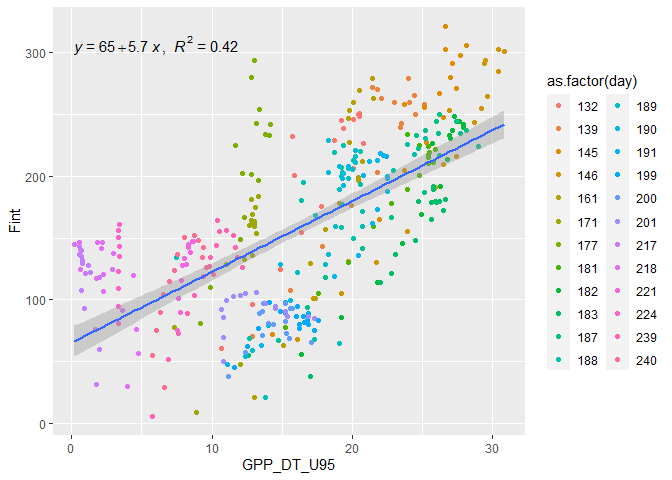
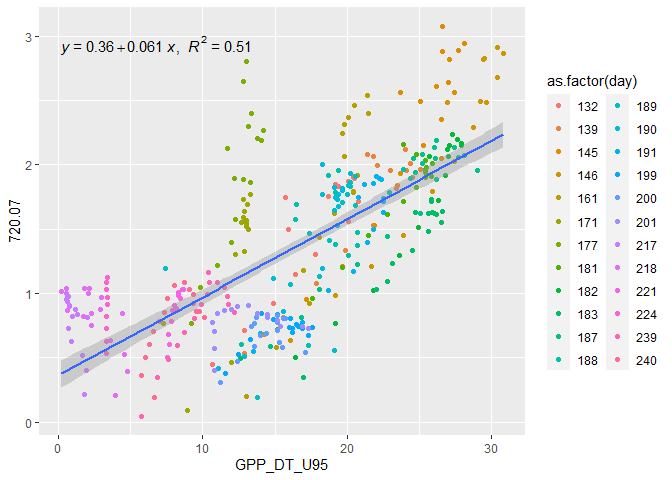
update

diff --git a/README.md b/README.md
@@ -310,9 +310,11 @@ df_final_sub |>
 
 ![](README_files/figure-gfm/unnamed-chunk-15-1.png)<!-- -->
 
+With the `720` wavelength
+
 ``` r
 df_final_sub |> 
-  ggplot2::ggplot(ggplot2::aes(x=GPP_DT_U95, y= Fint))+
+  ggplot2::ggplot(ggplot2::aes(x=GPP_DT_U95, y= `720.07`))+
   ggplot2::geom_jitter(ggplot2::aes(colour=as.factor(day)))+
   ggplot2::geom_smooth(method = "lm")+
   ggpubr::stat_regline_equation(ggplot2::aes(
@@ -322,6 +324,22 @@ df_final_sub |>
     ## `geom_smooth()` using formula 'y ~ x'
 
 ![](README_files/figure-gfm/unnamed-chunk-16-1.png)<!-- -->
+
+``` r
+df_final_sub |>
+  dplyr::filter(Hr1 > 10 & Hr1 < 14) |> 
+  ggplot2::ggplot(ggplot2::aes(x=GPP_DT_U95, y= `720.07`))+
+  ggplot2::geom_jitter(ggplot2::aes(colour=as.factor(day)))+
+  ggplot2::geom_smooth(method = "lm")+
+  ggpubr::stat_regline_equation(ggplot2::aes(
+  label =  paste(..eq.label.., ..rr.label.., sep = "*plain(\",\")~~")))
+```
+
+    ## `geom_smooth()` using formula 'y ~ x'
+
+![](README_files/figure-gfm/unnamed-chunk-17-1.png)<!-- -->
+
+With the other two selected waves
 
 ``` r
 df_final_sub |> 
@@ -334,7 +352,7 @@ df_final_sub |>
 
     ## `geom_smooth()` using formula 'y ~ x'
 
-![](README_files/figure-gfm/unnamed-chunk-17-1.png)<!-- -->
+![](README_files/figure-gfm/unnamed-chunk-18-1.png)<!-- -->
 
 ``` r
 df_final_sub |> 
@@ -347,7 +365,7 @@ df_final_sub |>
 
     ## `geom_smooth()` using formula 'y ~ x'
 
-![](README_files/figure-gfm/unnamed-chunk-18-1.png)<!-- -->
+![](README_files/figure-gfm/unnamed-chunk-19-1.png)<!-- -->
 
 ``` r
 df_final_sub |> 
@@ -362,7 +380,7 @@ df_final_sub |>
 
     ## `geom_smooth()` using formula 'y ~ x'
 
-![](README_files/figure-gfm/unnamed-chunk-19-1.png)<!-- -->
+![](README_files/figure-gfm/unnamed-chunk-20-1.png)<!-- -->
 
 ``` r
 df_final_sub |> 
@@ -377,7 +395,7 @@ df_final_sub |>
 
     ## `geom_smooth()` using formula 'y ~ x'
 
-![](README_files/figure-gfm/unnamed-chunk-20-1.png)<!-- -->
+![](README_files/figure-gfm/unnamed-chunk-21-1.png)<!-- -->
 
 # **Clounds and reflectance**
 
@@ -396,99 +414,99 @@ for(i in c(132,139,145,146,161,171,177,181,182,183,187,188,189,190,191,
 
     ## `geom_smooth()` using method = 'loess' and formula 'y ~ x'
 
-![](README_files/figure-gfm/unnamed-chunk-21-1.png)<!-- -->
+![](README_files/figure-gfm/unnamed-chunk-22-1.png)<!-- -->
 
     ## `geom_smooth()` using method = 'loess' and formula 'y ~ x'
 
-![](README_files/figure-gfm/unnamed-chunk-21-2.png)<!-- -->
+![](README_files/figure-gfm/unnamed-chunk-22-2.png)<!-- -->
 
     ## `geom_smooth()` using method = 'loess' and formula 'y ~ x'
 
-![](README_files/figure-gfm/unnamed-chunk-21-3.png)<!-- -->
+![](README_files/figure-gfm/unnamed-chunk-22-3.png)<!-- -->
 
     ## `geom_smooth()` using method = 'loess' and formula 'y ~ x'
 
-![](README_files/figure-gfm/unnamed-chunk-21-4.png)<!-- -->
+![](README_files/figure-gfm/unnamed-chunk-22-4.png)<!-- -->
 
     ## `geom_smooth()` using method = 'loess' and formula 'y ~ x'
 
-![](README_files/figure-gfm/unnamed-chunk-21-5.png)<!-- -->
+![](README_files/figure-gfm/unnamed-chunk-22-5.png)<!-- -->
 
     ## `geom_smooth()` using method = 'loess' and formula 'y ~ x'
 
-![](README_files/figure-gfm/unnamed-chunk-21-6.png)<!-- -->
+![](README_files/figure-gfm/unnamed-chunk-22-6.png)<!-- -->
 
     ## `geom_smooth()` using method = 'loess' and formula 'y ~ x'
 
-![](README_files/figure-gfm/unnamed-chunk-21-7.png)<!-- -->
+![](README_files/figure-gfm/unnamed-chunk-22-7.png)<!-- -->
 
     ## `geom_smooth()` using method = 'loess' and formula 'y ~ x'
 
-![](README_files/figure-gfm/unnamed-chunk-21-8.png)<!-- -->
+![](README_files/figure-gfm/unnamed-chunk-22-8.png)<!-- -->
 
     ## `geom_smooth()` using method = 'loess' and formula 'y ~ x'
 
-![](README_files/figure-gfm/unnamed-chunk-21-9.png)<!-- -->
+![](README_files/figure-gfm/unnamed-chunk-22-9.png)<!-- -->
 
     ## `geom_smooth()` using method = 'loess' and formula 'y ~ x'
 
-![](README_files/figure-gfm/unnamed-chunk-21-10.png)<!-- -->
+![](README_files/figure-gfm/unnamed-chunk-22-10.png)<!-- -->
 
     ## `geom_smooth()` using method = 'loess' and formula 'y ~ x'
 
-![](README_files/figure-gfm/unnamed-chunk-21-11.png)<!-- -->
+![](README_files/figure-gfm/unnamed-chunk-22-11.png)<!-- -->
 
     ## `geom_smooth()` using method = 'loess' and formula 'y ~ x'
 
-![](README_files/figure-gfm/unnamed-chunk-21-12.png)<!-- -->
+![](README_files/figure-gfm/unnamed-chunk-22-12.png)<!-- -->
 
     ## `geom_smooth()` using method = 'loess' and formula 'y ~ x'
 
-![](README_files/figure-gfm/unnamed-chunk-21-13.png)<!-- -->
+![](README_files/figure-gfm/unnamed-chunk-22-13.png)<!-- -->
 
     ## `geom_smooth()` using method = 'loess' and formula 'y ~ x'
 
-![](README_files/figure-gfm/unnamed-chunk-21-14.png)<!-- -->
+![](README_files/figure-gfm/unnamed-chunk-22-14.png)<!-- -->
 
     ## `geom_smooth()` using method = 'loess' and formula 'y ~ x'
 
-![](README_files/figure-gfm/unnamed-chunk-21-15.png)<!-- -->
+![](README_files/figure-gfm/unnamed-chunk-22-15.png)<!-- -->
 
     ## `geom_smooth()` using method = 'loess' and formula 'y ~ x'
 
-![](README_files/figure-gfm/unnamed-chunk-21-16.png)<!-- -->
+![](README_files/figure-gfm/unnamed-chunk-22-16.png)<!-- -->
 
     ## `geom_smooth()` using method = 'loess' and formula 'y ~ x'
 
-![](README_files/figure-gfm/unnamed-chunk-21-17.png)<!-- -->
+![](README_files/figure-gfm/unnamed-chunk-22-17.png)<!-- -->
 
     ## `geom_smooth()` using method = 'loess' and formula 'y ~ x'
 
-![](README_files/figure-gfm/unnamed-chunk-21-18.png)<!-- -->
+![](README_files/figure-gfm/unnamed-chunk-22-18.png)<!-- -->
 
     ## `geom_smooth()` using method = 'loess' and formula 'y ~ x'
 
-![](README_files/figure-gfm/unnamed-chunk-21-19.png)<!-- -->
+![](README_files/figure-gfm/unnamed-chunk-22-19.png)<!-- -->
 
     ## `geom_smooth()` using method = 'loess' and formula 'y ~ x'
 
-![](README_files/figure-gfm/unnamed-chunk-21-20.png)<!-- -->
+![](README_files/figure-gfm/unnamed-chunk-22-20.png)<!-- -->
 
     ## `geom_smooth()` using method = 'loess' and formula 'y ~ x'
 
-![](README_files/figure-gfm/unnamed-chunk-21-21.png)<!-- -->
+![](README_files/figure-gfm/unnamed-chunk-22-21.png)<!-- -->
 
     ## `geom_smooth()` using method = 'loess' and formula 'y ~ x'
 
-![](README_files/figure-gfm/unnamed-chunk-21-22.png)<!-- -->
+![](README_files/figure-gfm/unnamed-chunk-22-22.png)<!-- -->
 
     ## `geom_smooth()` using method = 'loess' and formula 'y ~ x'
 
-![](README_files/figure-gfm/unnamed-chunk-21-23.png)<!-- -->
+![](README_files/figure-gfm/unnamed-chunk-22-23.png)<!-- -->
 
     ## `geom_smooth()` using method = 'loess' and formula 'y ~ x'
 
-![](README_files/figure-gfm/unnamed-chunk-21-24.png)<!-- -->
+![](README_files/figure-gfm/unnamed-chunk-22-24.png)<!-- -->
 
 Here we are gonna see how the reflectance of the canopy are changing,
 and for this we are gonna use the NDVI and NDVI red-edge
@@ -614,7 +632,7 @@ ndvi |>
                       , colour="red")
 ```
 
-![](README_files/figure-gfm/unnamed-chunk-26-1.png)<!-- -->
+![](README_files/figure-gfm/unnamed-chunk-27-1.png)<!-- -->
 
 ## **NDVI Red Edge**
 
@@ -627,7 +645,7 @@ ndvi_r |>
                       , colour="red")
 ```
 
-![](README_files/figure-gfm/unnamed-chunk-27-1.png)<!-- -->
+![](README_files/figure-gfm/unnamed-chunk-28-1.png)<!-- -->
 
 # **Interpreting**
 
